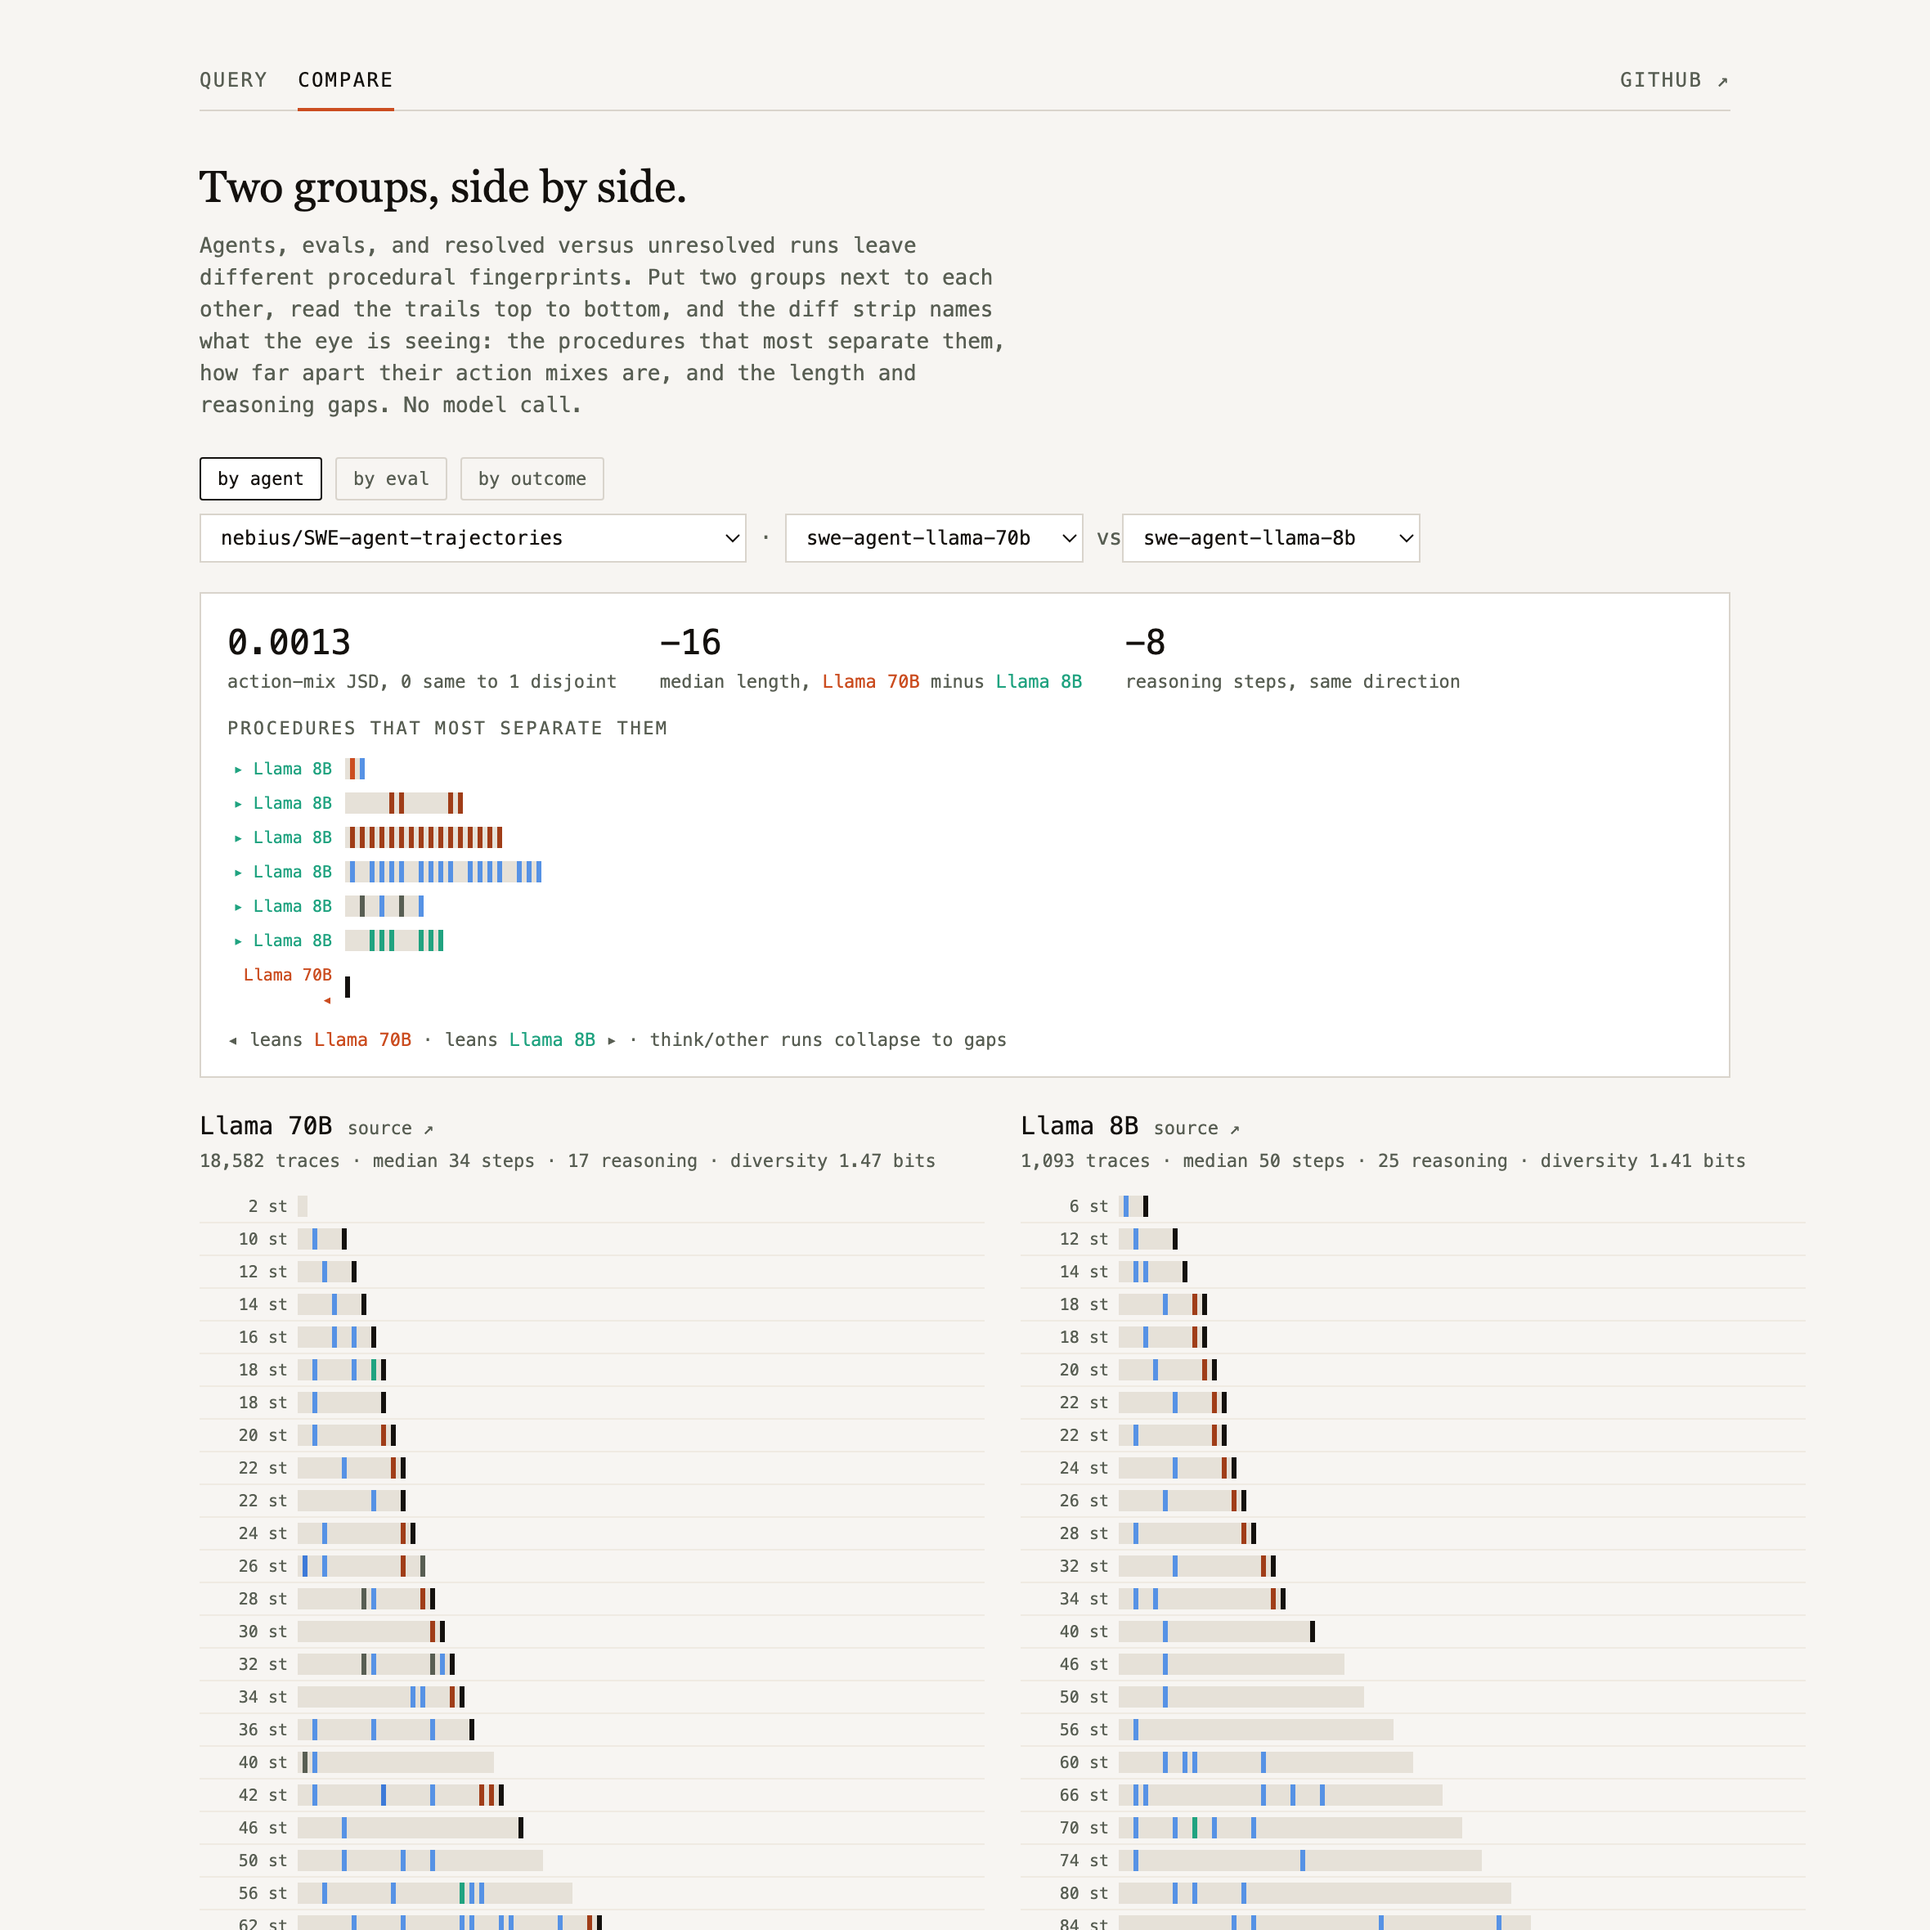
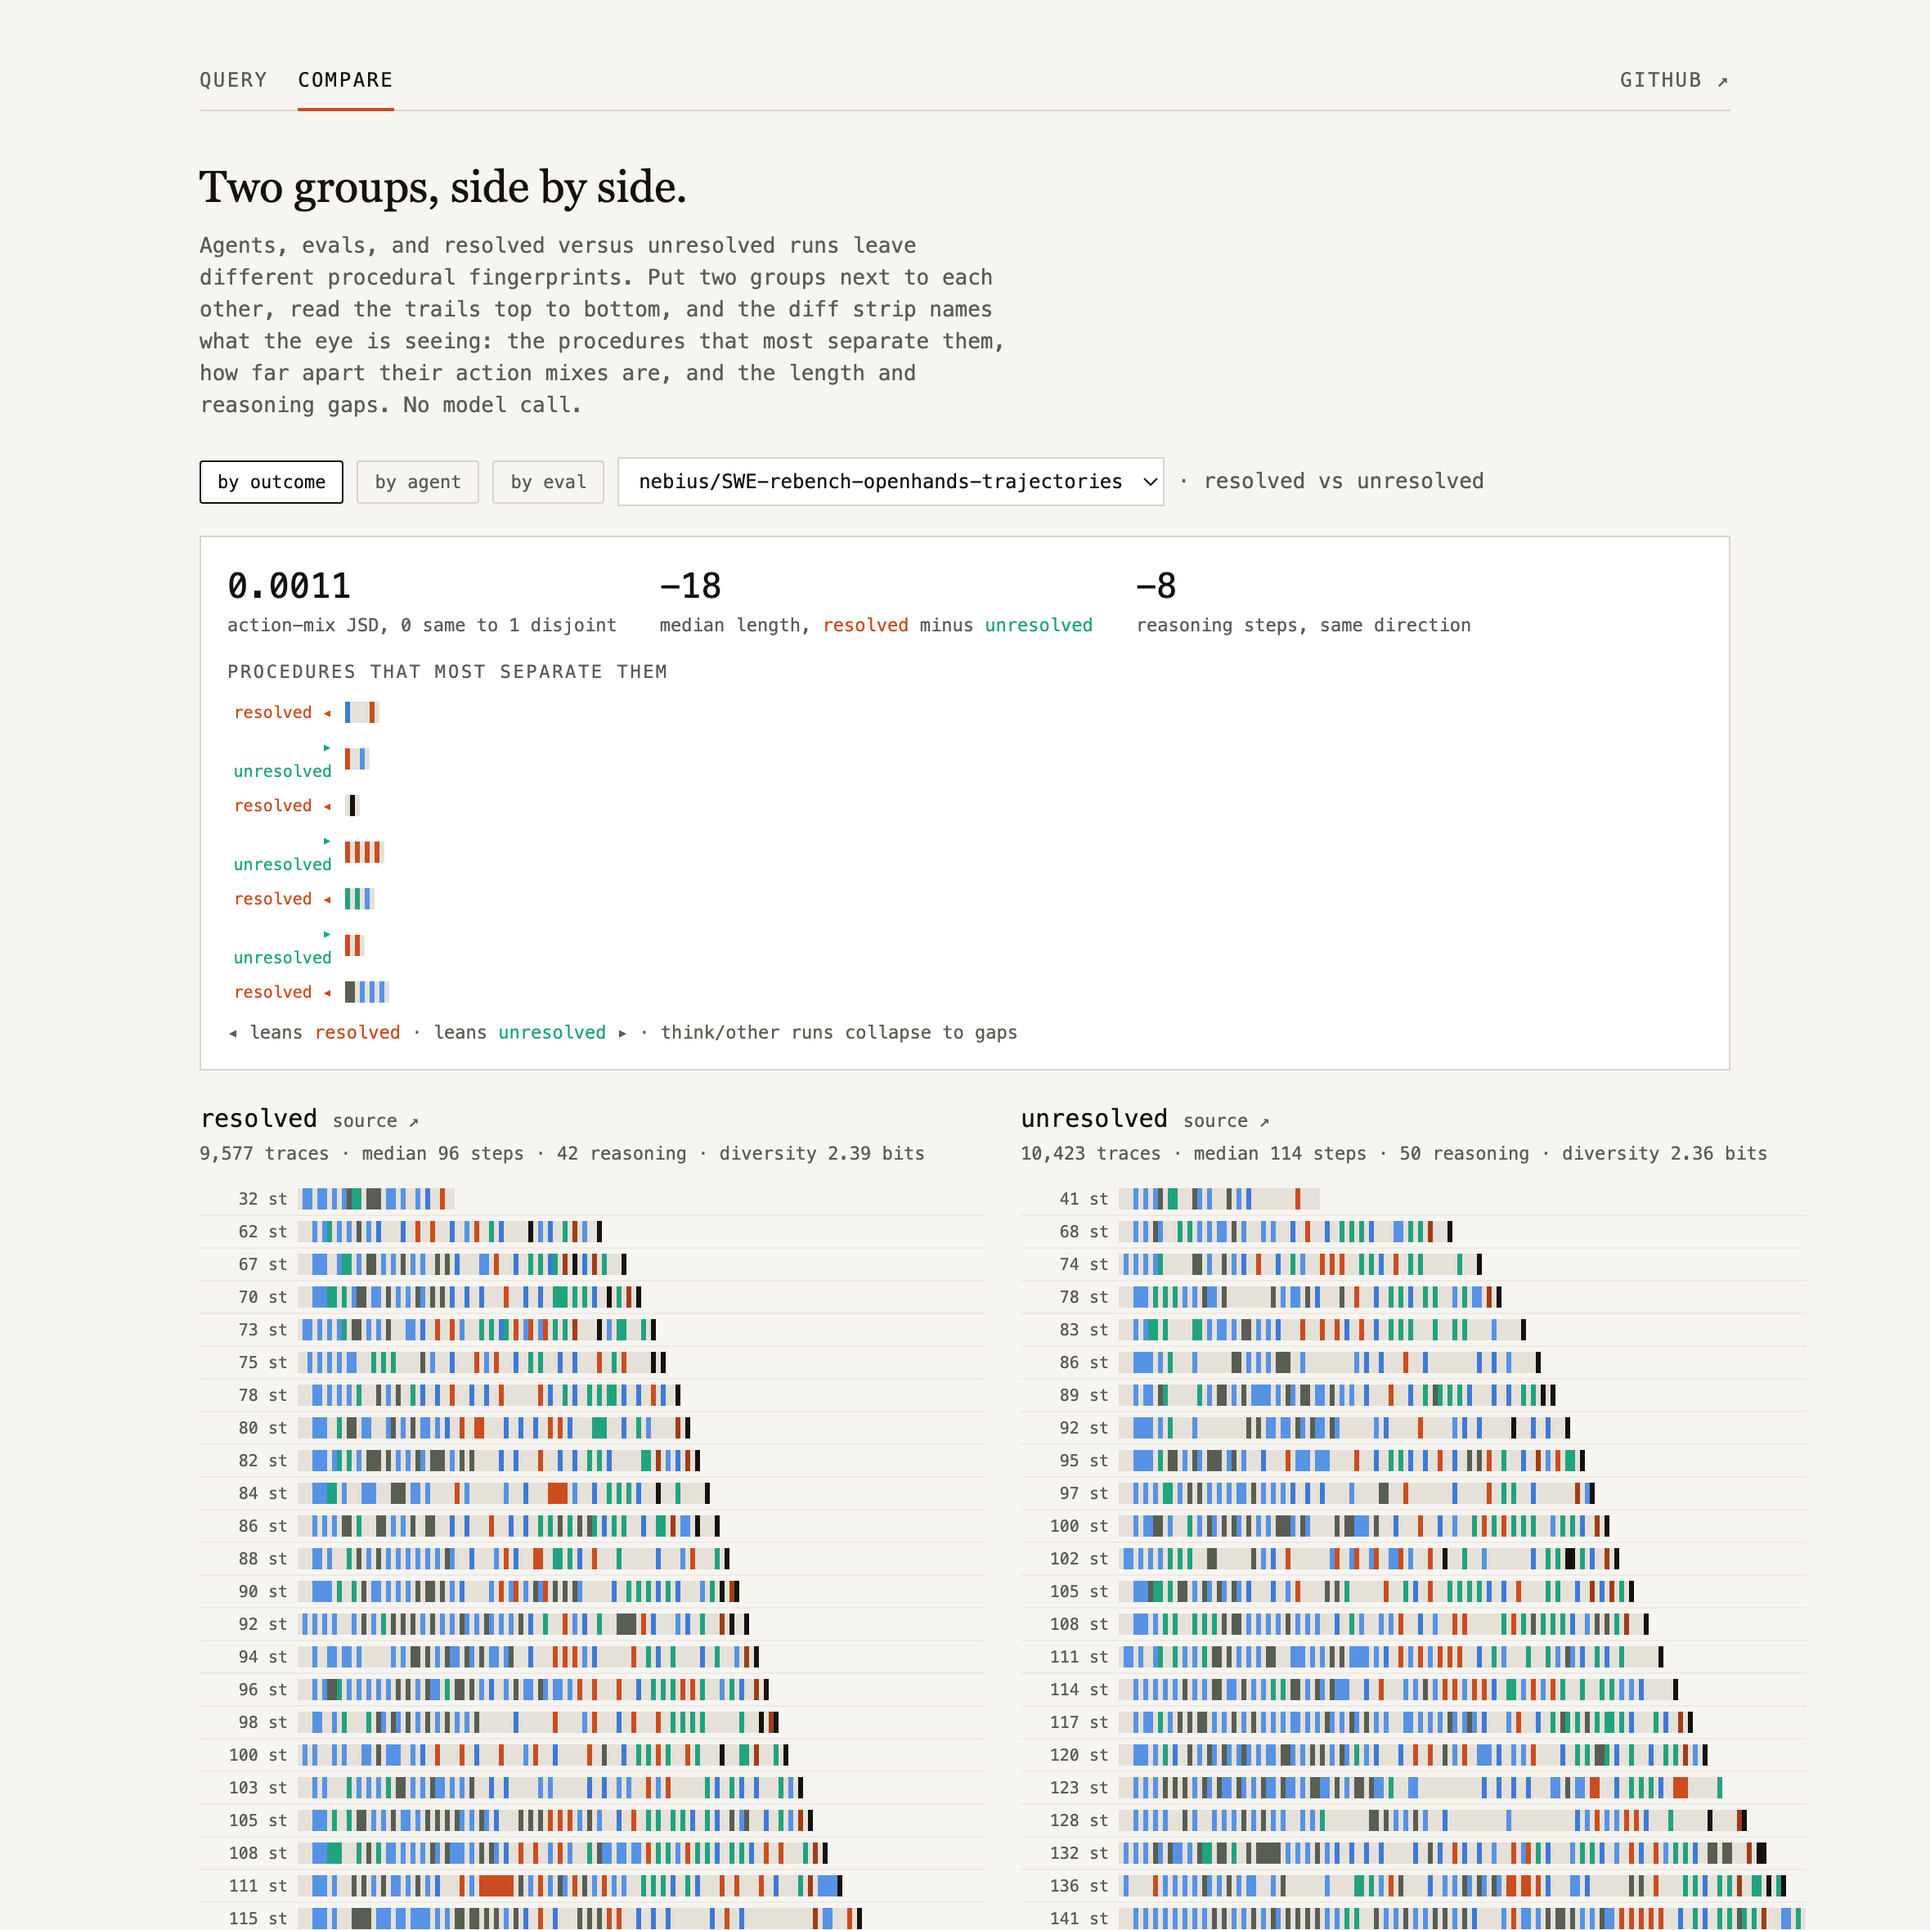
feat: outcome axis first and default; essay figure shows resolved vs unresolved
The comparator lists 'by outcome' first and lands on it by default, since
resolved vs unresolved shows a real behavioral gap where the same-family agent
pair is near-identical. The essay's compare figure and caption now show the
outcome split, and the capture script renders #compare:outcome.

diff --git a/docs/index.html b/docs/index.html
@@ -170,7 +170,7 @@ font-family:var(--mono);font-size:12px;color:var(--olive)}
 
 <aside class="showcase" id="showcase">
   <div class="sc-head"><span class="sc-eyebrow">procgrep demo · try it live</span>
-    <span><a class="sc-open" href="https://midah-procgrep-explorer.hf.space" target="_blank" rel="noopener">query ↗</a> &nbsp;·&nbsp; <a class="sc-open" href="https://midah-procgrep-explorer.hf.space/#compare" target="_blank" rel="noopener">compare agents ↗</a></span></div>
+    <span><a class="sc-open" href="https://midah-procgrep-explorer.hf.space" target="_blank" rel="noopener">query ↗</a> &nbsp;·&nbsp; <a class="sc-open" href="https://midah-procgrep-explorer.hf.space/#compare" target="_blank" rel="noopener">compare ↗</a></span></div>
   <div class="sc-frame">
     <iframe id="scframe" src="explorer/index.html#query" title="ProcGrep query playground" loading="lazy"></iframe>
   </div>
@@ -178,7 +178,7 @@ font-family:var(--mono);font-size:12px;color:var(--olive)}
 </aside>
 <figure class="exfig" id="compare-fig">
   <img src="figures/explorer_compare.png" alt="The compare view of the live explorer, two agents side by side" loading="lazy">
-  <figcaption class="caption">The compare view. Two groups side by side, each row one trajectory drawn as a barcode of canonical actions, reasoning pale and actions vivid, with a diff strip that names the procedures most separating them and the gaps in length and reasoning. Toggle by agent, by eval, or by resolved versus unresolved runs. <a href="https://midah-procgrep-explorer.hf.space/#compare" target="_blank" rel="noopener">Open it live ↗</a></figcaption>
+  <figcaption class="caption">The compare view, here splitting one dataset's runs into resolved and unresolved. Each row is one trajectory drawn as a barcode of canonical actions, reasoning pale and actions vivid. The diff strip shows the unresolved runs are longer and reason more, the shape of getting stuck. Toggle also by agent or by eval. <a href="https://midah-procgrep-explorer.hf.space/#compare" target="_blank" rel="noopener">Open it live ↗</a></figcaption>
 </figure>
 
 

diff --git a/space/static/index.html b/space/static/index.html
@@ -37,9 +37,9 @@ the procedures that most separate them, how far apart their action mixes are, an
 gaps. No model call.</p>
 
 <div class="cmpbar">
+  <span class="seg" id="seg-outcome" onclick="setAxis('outcome')">by outcome</span>
   <span class="seg" id="seg-agent" onclick="setAxis('agent')">by agent</span>
   <span class="seg" id="seg-eval" onclick="setAxis('eval')">by eval</span>
-  <span class="seg" id="seg-outcome" onclick="setAxis('outcome')">by outcome</span>
   <span id="cmp-controls"></span>
 </div>
 <div id="cmp-res"></div>

diff --git a/space/static/app.js b/space/static/app.js
@@ -315,7 +315,7 @@ function showView(name, axis) {
   $("tab-query").classList.toggle("act", name === "query");
   $("tab-compare").classList.toggle("act", name === "compare");
   if (name === "compare") {
-    if (!CMP_INIT) { CMP_INIT = true; setAxis(axis || "agent"); }
+    if (!CMP_INIT) { CMP_INIT = true; setAxis(axis || "outcome"); }
     else if (axis) setAxis(axis);
   }
 }

diff --git a/docs/paper/build_paper.py b/docs/paper/build_paper.py
@@ -99,7 +99,7 @@ def fix_figures(body: str) -> str:
 SHOWCASE = """
 <aside class="showcase" id="showcase">
   <div class="sc-head"><span class="sc-eyebrow">procgrep demo · try it live</span>
-    <span><a class="sc-open" href="https://midah-procgrep-explorer.hf.space" target="_blank" rel="noopener">query ↗</a> &nbsp;·&nbsp; <a class="sc-open" href="https://midah-procgrep-explorer.hf.space/#compare" target="_blank" rel="noopener">compare agents ↗</a></span></div>
+    <span><a class="sc-open" href="https://midah-procgrep-explorer.hf.space" target="_blank" rel="noopener">query ↗</a> &nbsp;·&nbsp; <a class="sc-open" href="https://midah-procgrep-explorer.hf.space/#compare" target="_blank" rel="noopener">compare ↗</a></span></div>
   <div class="sc-frame">
     <iframe id="scframe" src="explorer/index.html#query" title="ProcGrep query playground" loading="lazy"></iframe>
   </div>
@@ -107,7 +107,7 @@ SHOWCASE = """
 </aside>
 <figure class="exfig" id="compare-fig">
   <img src="figures/explorer_compare.png" alt="The compare view of the live explorer, two agents side by side" loading="lazy">
-  <figcaption class="caption">The compare view. Two groups side by side, each row one trajectory drawn as a barcode of canonical actions, reasoning pale and actions vivid, with a diff strip that names the procedures most separating them and the gaps in length and reasoning. Toggle by agent, by eval, or by resolved versus unresolved runs. <a href="https://midah-procgrep-explorer.hf.space/#compare" target="_blank" rel="noopener">Open it live ↗</a></figcaption>
+  <figcaption class="caption">The compare view, here splitting one dataset's runs into resolved and unresolved. Each row is one trajectory drawn as a barcode of canonical actions, reasoning pale and actions vivid. The diff strip shows the unresolved runs are longer and reason more, the shape of getting stuck. Toggle also by agent or by eval. <a href="https://midah-procgrep-explorer.hf.space/#compare" target="_blank" rel="noopener">Open it live ↗</a></figcaption>
 </figure>
 """
 
